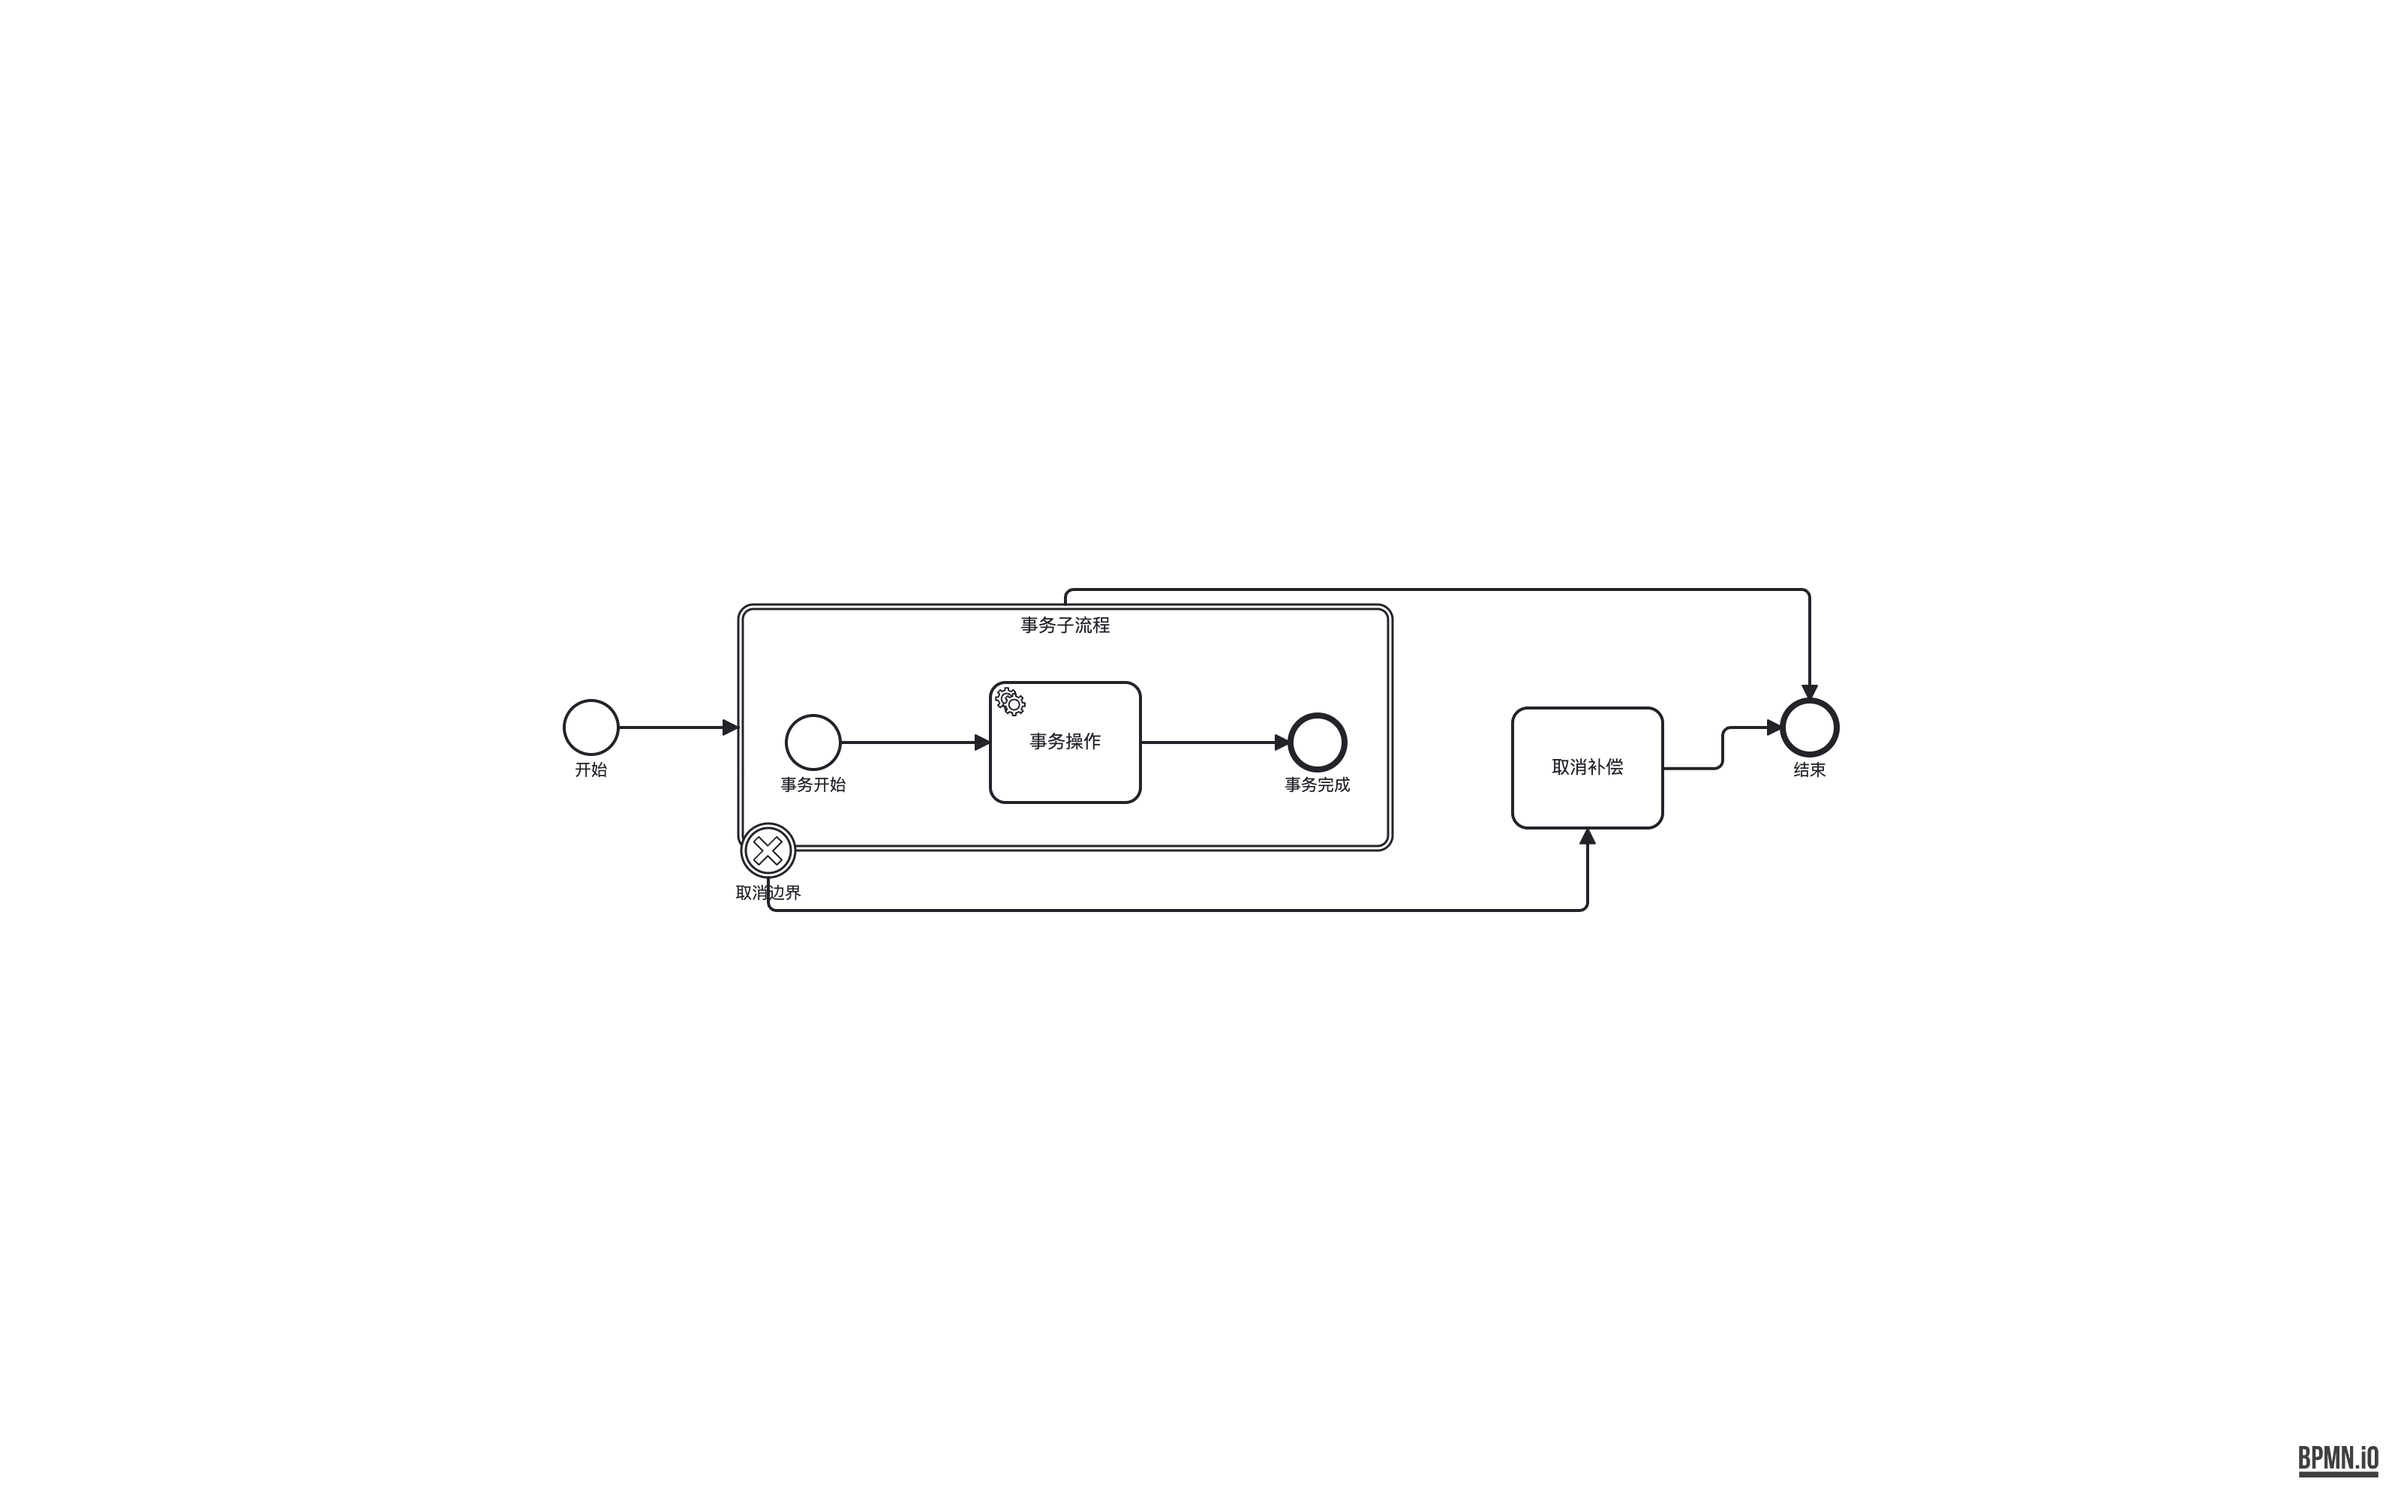
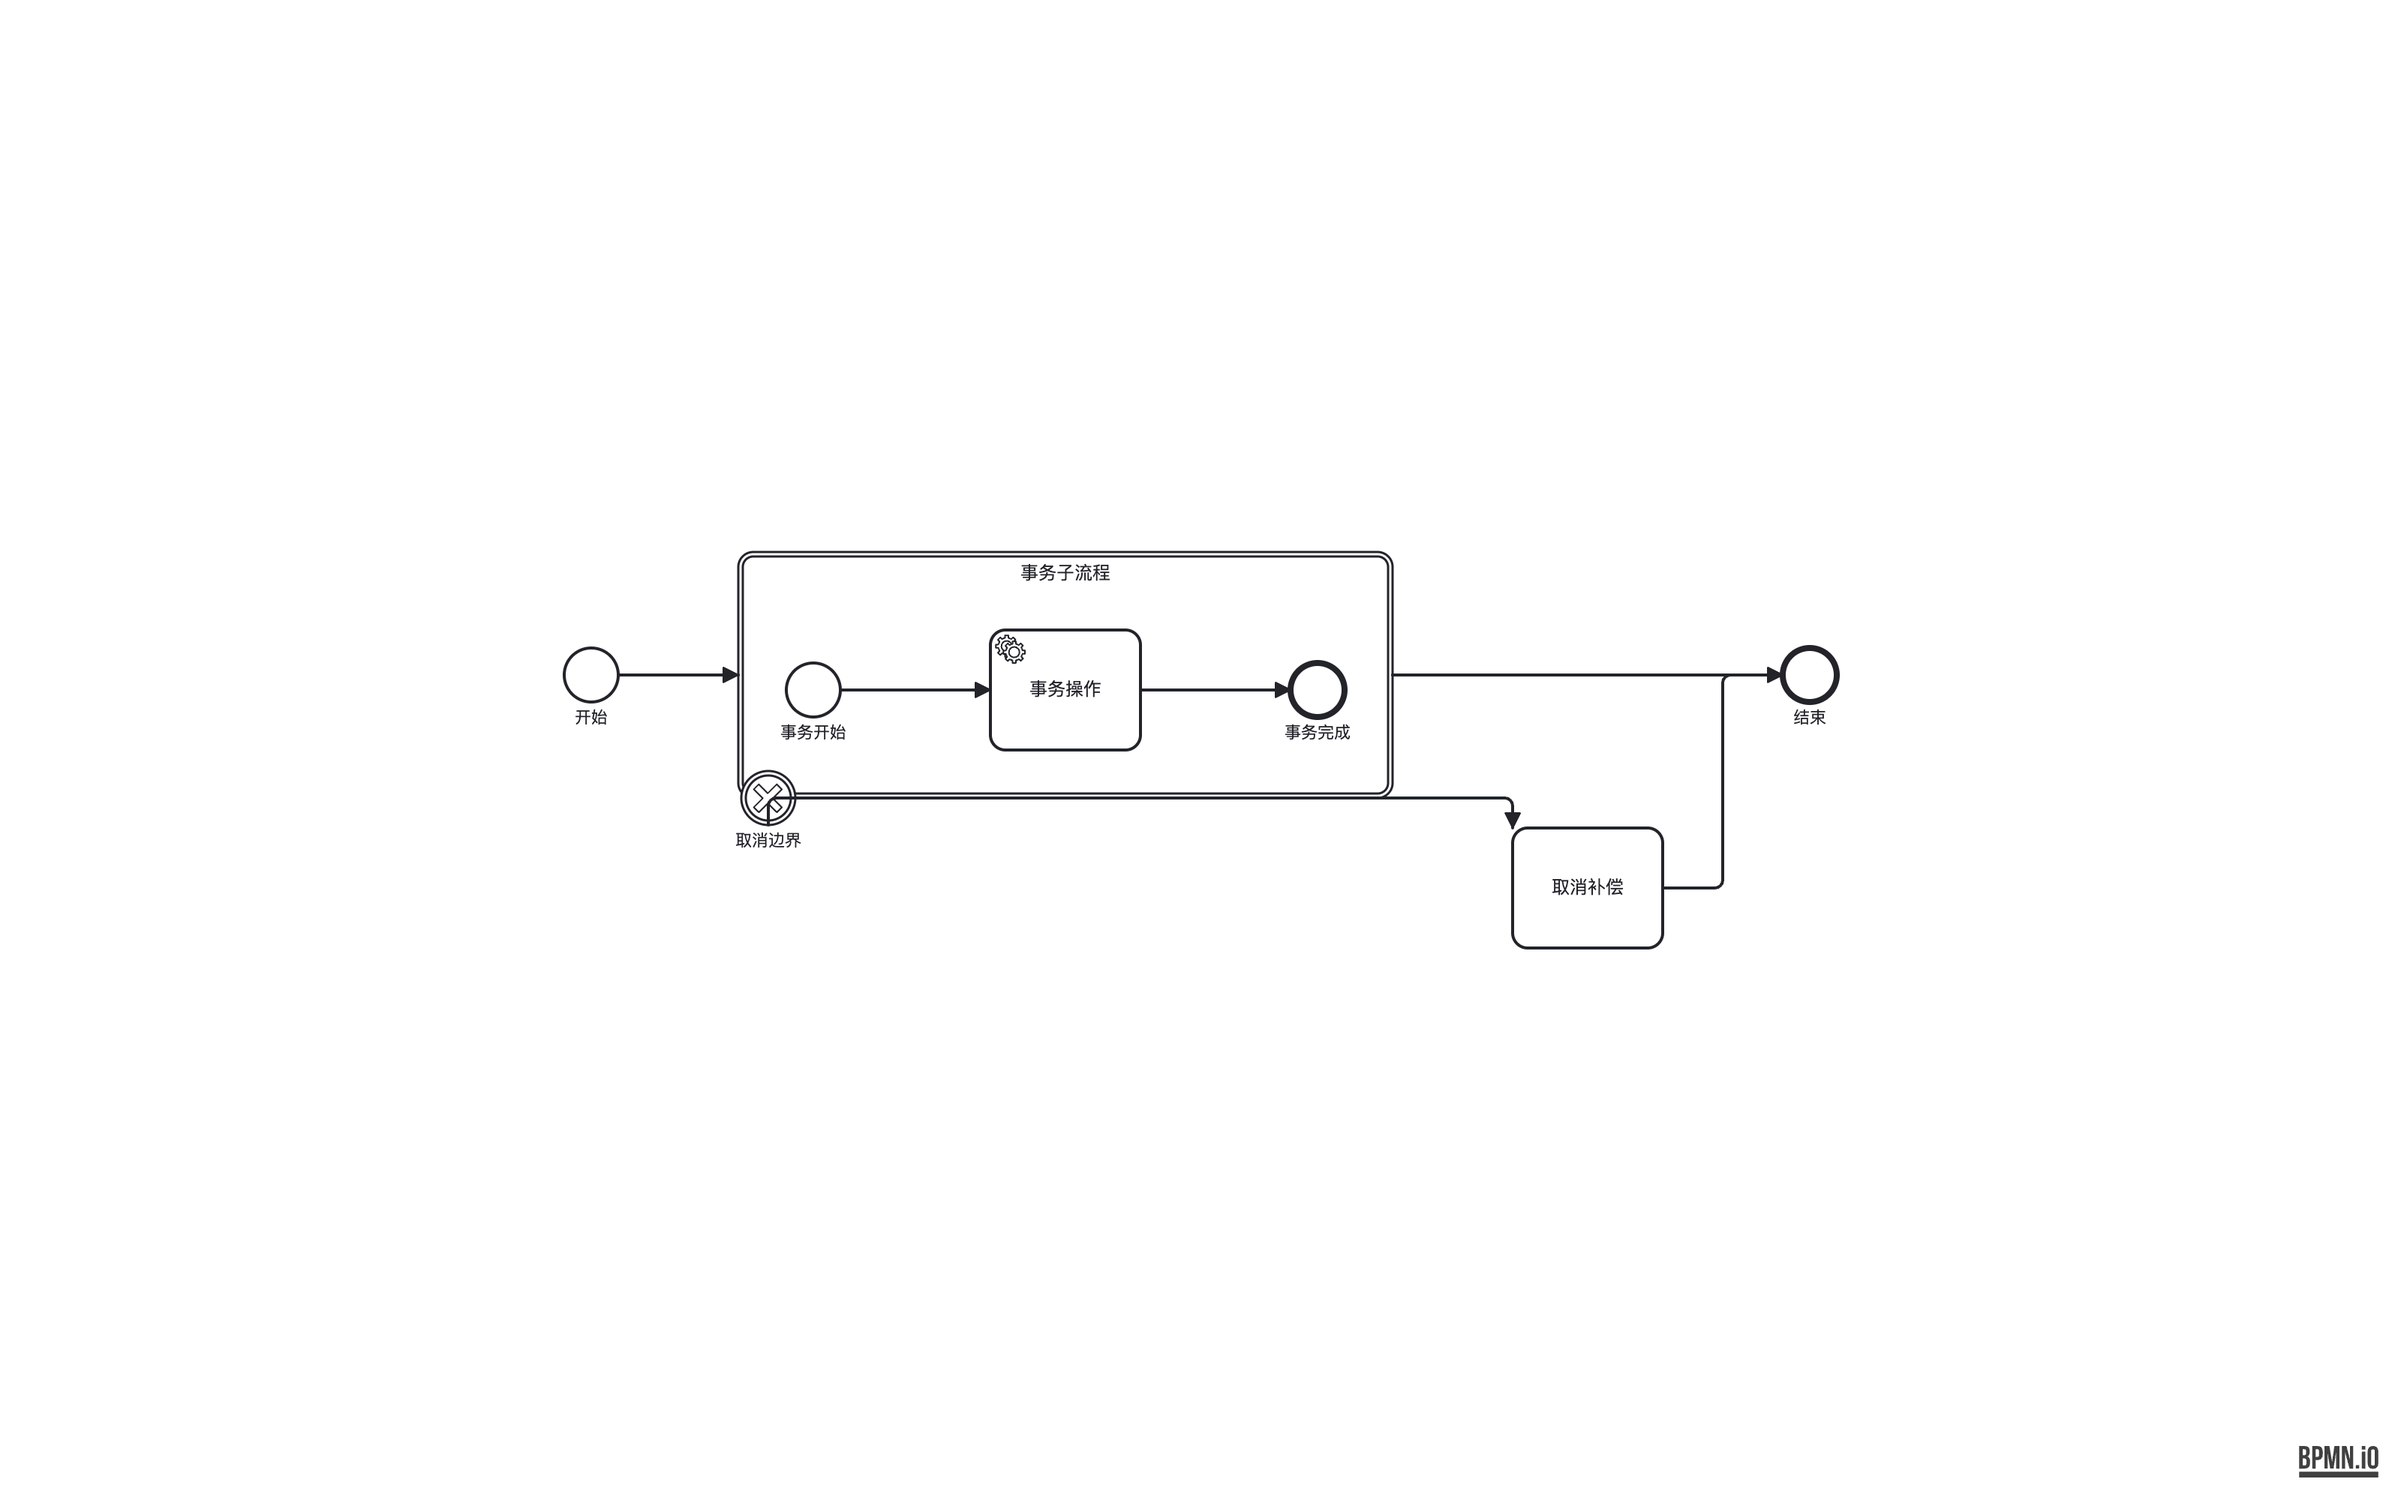
feat(lane-constrainer): 脊柱走廊守卫——同排脊柱对被 handler 组卡住时整组下移
17 的 取消补偿（补偿 handler）坐在 事务子流程→结束 的直线走廊上，脊柱边只能
绕顶（F14 的 C 族）。守卫：BFS 脊柱的同排相邻对（|Δcy| ≤ 4，cy 不同本来画不直，
移了白移——23 的 F10/F13 代价就是这么省掉的），直线走廊被某 BE 的 handler 组
卡住时整组下移到带下（保持组内相对位置；N1 撞节点就整组回退，不制造硬违例）。

17 的 F14 → 0：脊柱直通、handler 带悬在下方。23 的剩余 F14 建档为 handler
密度压力下的两个模板 Z（dy=36/50 几何必然，absorbSmallJog 的 ±14px 带规则
兜不住；对齐节点 Y 是已关闭的 4.3 路线，不重开）。

diff --git a/src/stages/lane-constrainer.ts b/src/stages/lane-constrainer.ts
@@ -43,6 +43,8 @@ export interface LaneConstrainInput {
   boundaryHosts?: ReadonlySet<string>;
   /** 语义回边（BackEdgeResolver）：无 lane pool 的纯链 Y snap 判链时剔除 */
   backEdgeIds?: ReadonlySet<string>;
+  /** BE host → 其 handler 节点组：脊柱走廊守卫用——handler 组挡住同排脊柱对的直线走廊时整组下移 */
+  handlerGroups?: ReadonlyMap<string, ReadonlySet<string>>;
 }
 
 export interface LaneConstrainOutput {
@@ -79,6 +81,118 @@ const MIN_X_GAP = 30;
 function isEventType(t: FlowNodeType): boolean {
   return t === 'startEvent' || t === 'endEvent'
     || t === 'intermediateCatchEvent' || t === 'intermediateThrowEvent';
+}
+
+/**
+ * 脊柱走廊守卫：同排相邻脊柱对（BFS 最短路径上的连续节点，|Δcy| ≤ 60）的直线走廊里
+ * 若卡着某个 BE 的 handler 组（17 的 取消补偿、23 的 shipping_status handler），脊柱边
+ * 只能绕顶（F14 的 C 族）。把整组 handler 下移到走廊带之下（保持组内相对位置），
+ * N1 撞节点就整组回退——让不出干净走廊就保持原样，不制造硬违例。
+ */
+const SPINE_CORRIDOR_SHIFT_GAP = 20;
+function clearSpineCorridorOfHandlers(
+  nodes: Map<string, NodeBox>,
+  edges: LaneEdgeInfo[] | undefined,
+  handlerGroups: ReadonlyMap<string, ReadonlySet<string>> | undefined,
+): { nodes: Map<string, NodeBox>; maxBottom: number } {
+  if (!edges || edges.length === 0 || !handlerGroups || handlerGroups.size === 0) {
+    return { nodes, maxBottom: 0 };
+  }
+  const handlerOf = new Map<string, string>(); // nodeId → hostId
+  for (const [host, members] of handlerGroups) for (const id of members) handlerOf.set(id, host);
+
+  // BFS 最短脊柱（同 F14）：从所有 start 到所有 end 取第一条找到的；无 start/end 就无脊柱可守
+  const inDeg = new Map<string, number>();
+  const outAdj = new Map<string, string[]>();
+  for (const e of edges) {
+    if (!nodes.has(e.source) || !nodes.has(e.target)) continue;
+    inDeg.set(e.target, (inDeg.get(e.target) ?? 0) + 1);
+    if (!outAdj.has(e.source)) outAdj.set(e.source, []);
+    outAdj.get(e.source)!.push(e.target);
+  }
+  const isEnd = (id: string) => (outAdj.get(id) ?? []).length === 0;
+  let spine: string[] = [];
+  for (const id of nodes.keys()) {
+    if ((inDeg.get(id) ?? 0) > 0) continue;
+    const parent = new Map<string, string>();
+    const queue = [id];
+    const seen = new Set([id]);
+    let hit: string | null = null;
+    while (queue.length > 0 && hit === null) {
+      const u = queue.shift()!;
+      if (u !== id && isEnd(u)) { hit = u; break; }
+      for (const v of outAdj.get(u) ?? []) {
+        if (seen.has(v)) continue;
+        seen.add(v);
+        parent.set(v, u);
+        queue.push(v);
+      }
+    }
+    if (hit !== null) {
+      const path = [hit];
+      let cur = hit;
+      while (cur !== id) { cur = parent.get(cur)!; path.unshift(cur); }
+      if (path.length > spine.length) spine = path;
+    }
+  }
+  if (spine.length < 2) return { nodes, maxBottom: 0 };
+  const spineSet = new Set(spine);
+
+  const out = new Map(nodes);
+  const overlaps = (a: { x: number; y: number; w: number; h: number }, b: { x: number; y: number; w: number; h: number }) =>
+    a.x < b.x + b.w && a.x + a.w > b.x && a.y < b.y + b.h && a.y + a.h > b.y;
+
+  let maxBottom = 0;
+  for (let i = 0; i + 1 < spine.length; i++) {
+    const ub = out.get(spine[i]!)!;
+    const vb = out.get(spine[i + 1]!)!;
+    const uCy = ub.y + ub.h / 2;
+    const vCy = vb.y + vb.h / 2;
+    // 严格同排才移：cy 不同（如 23 的 36px 差）时脊柱边本来就画不直（模板 Z），
+    // 移 handler 救不了它，只会白吃 F10/F13 代价。
+    if (Math.abs(uCy - vCy) > 4) continue;
+    if (ub.x >= vb.x) continue;               // 脊柱应 LTR，回绕段不是直线走廊
+    const bandTop = Math.min(ub.y, vb.y);
+    const bandBottom = Math.max(ub.y + ub.h, vb.y + vb.h);
+    const xLo = ub.x + ub.w;
+    const xHi = vb.x;
+    if (xHi <= xLo) continue;
+
+    // 找出所有与走廊相交的 handler 组（按 host 去重）
+    const blockingHosts = new Set<string>();
+    for (const [id, b] of out) {
+      const host = handlerOf.get(id);
+      if (!host || spineSet.has(id)) continue;
+      if (overlaps(b, { x: xLo, y: bandTop, w: xHi - xLo, h: bandBottom - bandTop })) blockingHosts.add(host);
+    }
+    for (const host of blockingHosts) {
+      const members = [...handlerGroups.get(host)!].filter(id => out.has(id));
+      if (members.length === 0) continue;
+      const groupMinTop = Math.min(...members.map(id => out.get(id)!.y));
+      const dy = bandBottom + SPINE_CORRIDOR_SHIFT_GAP - groupMinTop;
+      if (dy <= 0) continue;
+      // 试移整组，N1 检查：任何 member 不得撞非本组节点
+      const trial = members.map(id => {
+        const b = out.get(id)!;
+        return { id, box: { ...b, y: b.y + dy } };
+      });
+      const memberSet = new Set(members);
+      let ok = true;
+      for (const t of trial) {
+        for (const [oid, ob] of out) {
+          if (memberSet.has(oid)) continue;
+          if (overlaps(t.box, ob)) { ok = false; break; }
+        }
+        if (!ok) break;
+      }
+      if (!ok) continue; // 让不开就保持原样（handler 排布是 P3 定的，不硬来）
+      for (const t of trial) {
+        out.set(t.id, t.box);
+        maxBottom = Math.max(maxBottom, t.box.y + t.box.h);
+      }
+    }
+  }
+  return { nodes: out, maxBottom };
 }
 
 /** 无 lane pool 的纯链 Y snap：按连通分量各自判定——剔语义回边后是全覆盖纯链的分量，
@@ -150,8 +264,11 @@ export function laneConstrain(input: LaneConstrainInput): LaneConstrainOutput {
         ));
       }
     }
+    const snapped = snapNoLanePureChain(nodes, edges, input.backEdgeIds, input.boundaryHosts);
+    const guarded = clearSpineCorridorOfHandlers(snapped, edges, input.handlerGroups);
+    if (guarded.maxBottom > 0) poolHeight = Math.max(poolHeight, guarded.maxBottom);
     return {
-      nodes: snapNoLanePureChain(nodes, edges, input.backEdgeIds, input.boundaryHosts),
+      nodes: guarded.nodes,
       laneBoxes: new Map(),
       leafOrder: [],
       allLanes: [],

diff --git a/src/pipeline.ts b/src/pipeline.ts
@@ -519,12 +519,19 @@ async function phaseElkPlacementAndLanes(ctx: PipelineContext): Promise<void> {
     const edgesForLane = proc.sequenceFlows
       .filter(sf => mainReachable.has(sf.source) && mainReachable.has(sf.target))
       .map(sf => ({ id: sf.id, source: sf.source, target: sf.target }));
+    const handlerGroups = new Map<string, Set<string>>();
+    for (const [nodeId, meta] of ctx.handlerNodeMeta) {
+      if (meta.procId !== proc.id) continue;
+      if (!handlerGroups.has(meta.hostId)) handlerGroups.set(meta.hostId, new Set());
+      handlerGroups.get(meta.hostId)!.add(nodeId);
+    }
     const constrain = laneConstrain({
       nodes: placement.nodes, width: placement.bounds.width, height: placement.bounds.height, lanes: proc.lanes,
       nodeMeta: nodeMetaForLane,
       edges: edgesForLane,
       boundaryHosts: new Set(proc.flowNodes.filter(fn => fn.boundaryEventIds.length > 0).map(fn => fn.id)),
       backEdgeIds: reversedEdgeIds,
+      handlerGroups,
     });
     ctx.ms.constrain += performance.now() - tc;
     if (constrain.nodeRowDir) {
